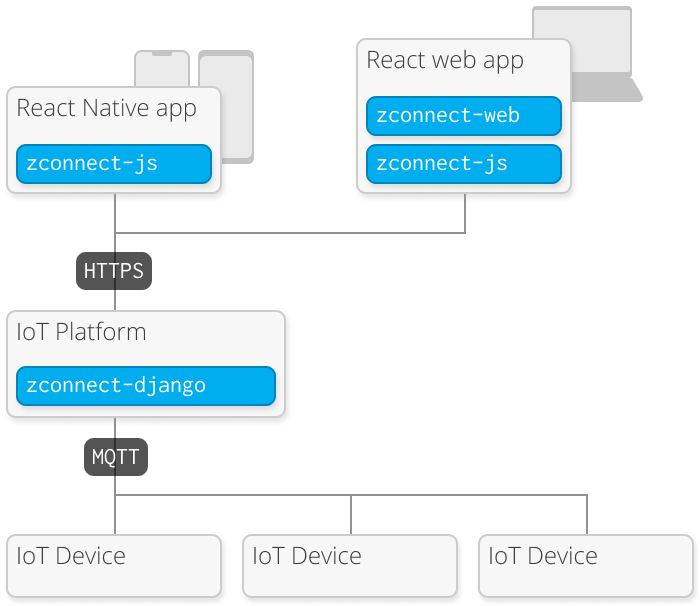
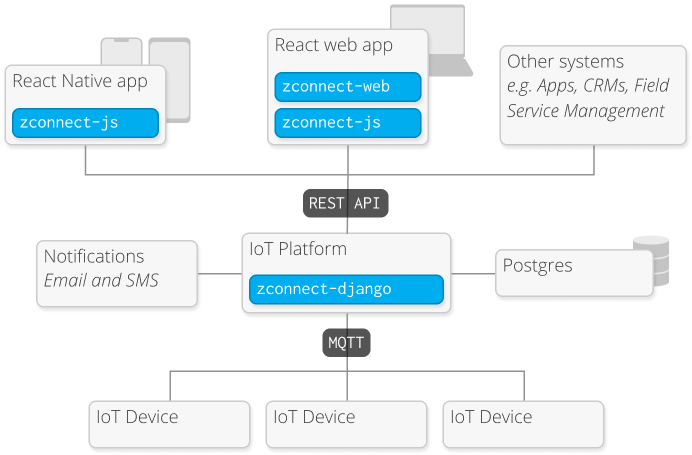
API docs and better image

diff --git a/apidocs/index.html b/apidocs/index.html
@@ -1,0 +1,24 @@
+<!DOCTYPE html>
+<html>
+  <head>
+    <title>Zconnect | HTTP API Specs</title>
+    <!-- needed for adaptive design -->
+    <meta charset="utf-8"/>
+    <meta name="viewport" content="width=device-width, initial-scale=1">
+    <link href="https://fonts.googleapis.com/css?family=Montserrat:300,400,700|Roboto:300,400,700" rel="stylesheet">
+
+    <!--
+    ReDoc doesn't change outer page styles
+    -->
+    <style>
+      body {
+        margin: 0;
+        padding: 0;
+      }
+    </style>
+  </head>
+  <body>
+    <redoc spec-url='https://raw.githubusercontent.com/zconnect-iot/http-api-specs/master/openapi.yaml'></redoc>
+    <script src="https://cdn.jsdelivr.net/npm/redoc@next/bundles/redoc.standalone.js"> </script>
+  </body>
+</html>

diff --git a/_sass/jekyll-theme-cayman.scss b/_sass/jekyll-theme-cayman.scss
@@ -54,11 +54,15 @@ a {
   border-radius: 0.3rem;
   transition: color 0.2s, background-color 0.2s, border-color 0.2s;
 
-  &:hover {
+  &:hover:not(.disabled) {
     color: rgba(0, 0, 0, 0.8);
     text-decoration: none;
     background-color: rgba(0, 0, 0, 0.2);
     border-color: rgba(0, 0, 0, 0.3);
+  }
+
+  &.disabled {
+    color: rgba(0, 0, 0, 0.4);
   }
 
   + .btn {

diff --git a/index.md b/index.md
@@ -43,7 +43,17 @@ A typical IoT deployment is devided into three main parts: the IoT platform, the
 
 <img style="display: block; margin: 0 auto; width: 600px;" src="/assets/system-diagram.png" alt="Zconnect System Diagram" >
 
-Any of the parts can be used independently of the others, since they interact via APIs.
+Any of the parts can be used independently of the others, since they interact via simple APIs. However, the components are designed to work together so that you can quickly and easily build and IoT system with an interface made from reusable components.
+
+<a class="btn" href="/apidocs">
+  HTTP API specs
+</a>
+<span class="btn disabled">
+  MQTT specs (coming soon)
+</span>
+<a class="btn" href="/styleguide">
+  React Component Guide
+</a>
 
 # Repositories
 
@@ -55,9 +65,9 @@ The core of ZConnect, built with Django for an excellent developer experience.
 - provides a complete RESTful HTTP API
 - optional modules for billing and time-series data
 
-<a class="btn" href="#" disabled>
+<span class="btn disabled">
   Coming soon
-</a>
+</span>
 
 ## zconnect-js
 
